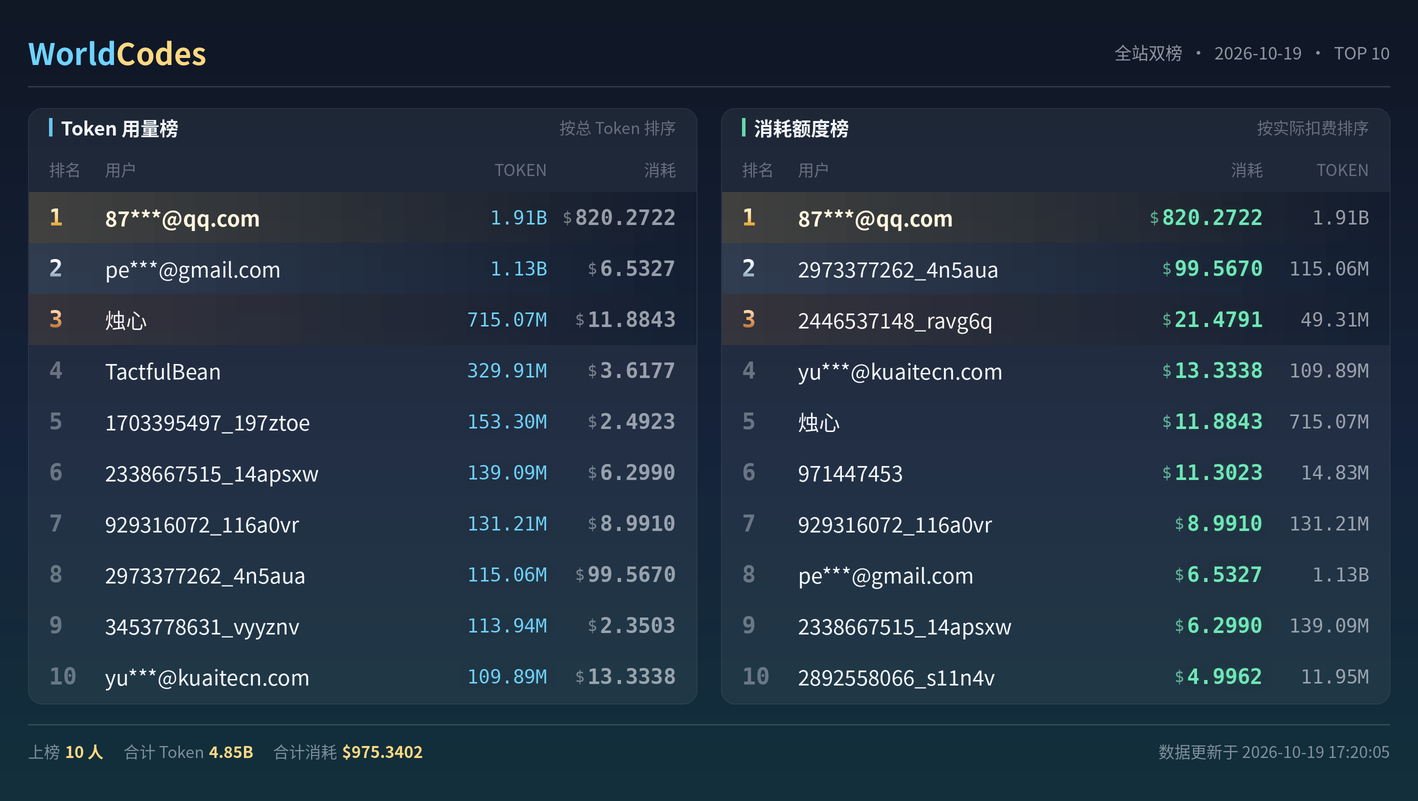
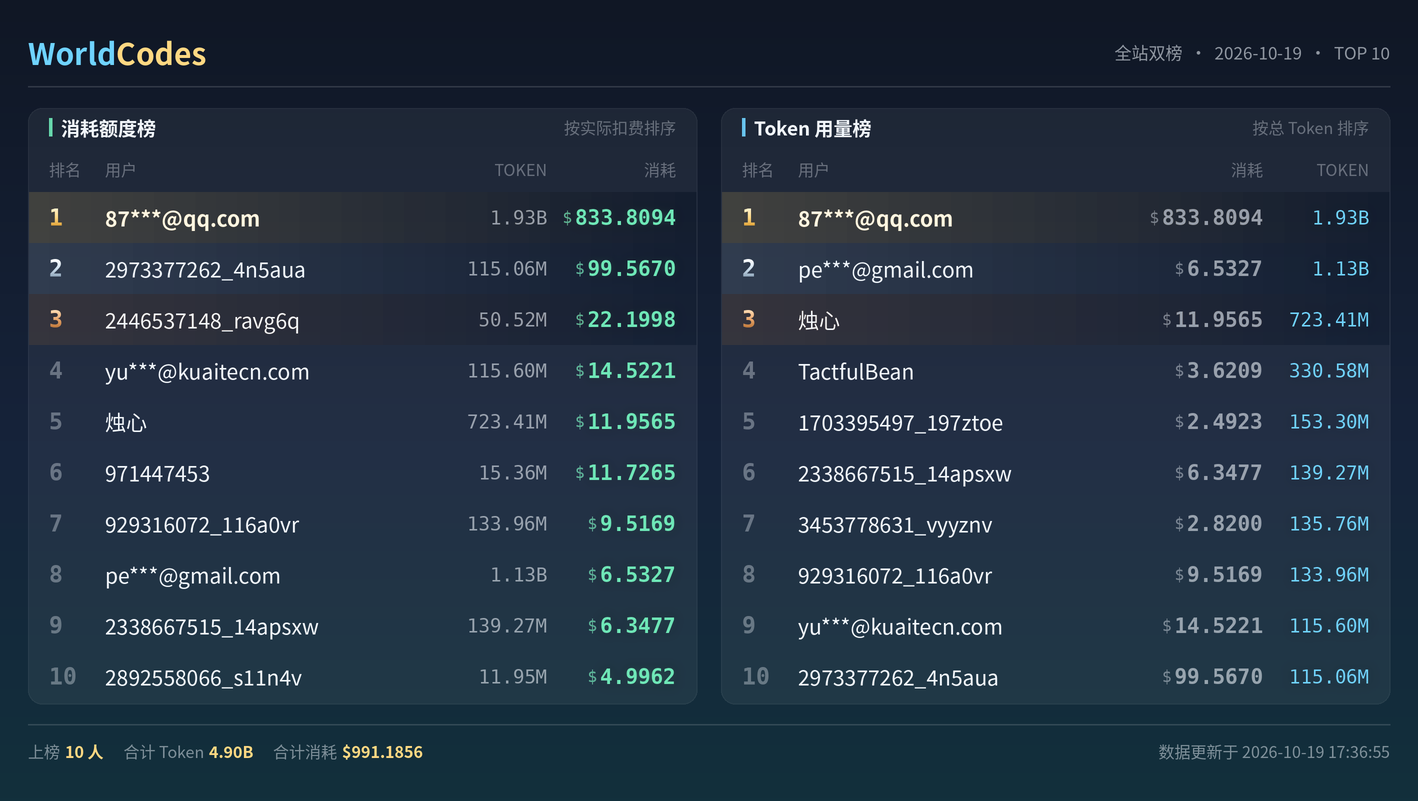
feat: 双榜改为左消耗右 Token，本榜指标列移到最右
- 面板顺序：左栏消耗额度榜、右栏 Token 用量榜
- 每栏把本榜排名的指标挪到最右一列并保持发光强调，另一个指标降为灰字参照
- 单榜同样把本榜指标排在最后一列，列序为 排名/用户/参照指标/请求数/本榜指标
- 页脚合计固定取 Token 榜那份，避免随面板顺序漂移
- 预览图与文档同步

diff --git a/local_render.py b/local_render.py
@@ -277,27 +277,23 @@ def _plan(panels: Sequence[dict], show_cost: bool, image_width: int) -> dict:
     inner_pad = 1 + geo["row_pad_h"]
     inner_w = panel_w - 2 * inner_pad
 
-    # 每一栏的列：双榜只放「主指标 + 次指标」，单榜放三列
+    # 每一栏的列：本榜排名的那个指标永远放在最右一列（表格惯例，
+    # 数值靠右对齐），另一个指标当参照列排在它左边。
     def columns_for(panel: dict) -> list[dict]:
         metric = str(panel.get("metric") or "tokens")
+        primary = metric if metric in ("tokens", "cost") else "tokens"
+        other = "cost" if primary == "tokens" else "tokens"
+        label = (lambda k: "TOKEN" if k == "tokens" else "消耗")
+
         cols: list[dict] = []
         if dual or not show_cost:
-            first = "tokens" if metric == "tokens" else "cost"
-            second = "cost" if metric == "tokens" else "tokens"
-            cols.append(dict(key=first, w=col_w[first], primary=True,
-                             label="TOKEN" if first == "tokens" else "消耗"))
-            if show_cost or second != "cost":
-                cols.append(dict(key=second, w=col_w[second], primary=False,
-                                 label="消耗" if second == "cost" else "TOKEN"))
+            if show_cost or other != "cost":
+                cols.append(dict(key=other, w=col_w[other], primary=False, label=label(other)))
+            cols.append(dict(key=primary, w=col_w[primary], primary=True, label=label(primary)))
         else:
-            # 单榜：主指标紧挨用户列排最左，再跟请求，次指标放最后
-            first = "tokens" if metric == "tokens" else "cost"
-            second = "cost" if first == "tokens" else "tokens"
-            cols.append(dict(key=first, w=col_w[first], primary=True,
-                             label="TOKEN" if first == "tokens" else "消耗"))
+            cols.append(dict(key=other, w=col_w[other], primary=False, label=label(other)))
             cols.append(dict(key="requests", w=col_w["requests"], primary=False, label="请求"))
-            cols.append(dict(key=second, w=col_w[second], primary=False,
-                             label="消耗" if second == "cost" else "TOKEN"))
+            cols.append(dict(key=primary, w=col_w[primary], primary=True, label=label(primary)))
         return cols
 
     return dict(

diff --git a/main.py b/main.py
@@ -549,10 +549,11 @@ class SpendingRankPlugin(Star):
                 }
             )
 
-        if isinstance(token_list, list):
-            _add(token_list, "tokens", "Token 用量榜", "按总 Token 排序")
+        # 左栏 = 消耗额度榜，右栏 = Token 用量榜
         if isinstance(cost_list, list):
             _add(cost_list, "cost", "消耗额度榜", "按实际扣费排序")
+        if isinstance(token_list, list):
+            _add(token_list, "tokens", "Token 用量榜", "按总 Token 排序")
 
         if not panels:
             _add(_extract_list(payload), "tokens", "Token 用量榜", "按总 Token 排序")
@@ -562,10 +563,12 @@ class SpendingRankPlugin(Star):
             picked = [p for p in panels if p["metric"] == mode]
             panels = picked or panels[:1]
 
-        first = panels[0]
+        # 页脚的合计固定取 Token 榜那份（两榜成员可能不完全一致，
+        # 取第一栏会让合计数字随面板顺序漂移）
+        token_panel = next((p for p in panels if p["metric"] == "tokens"), panels[0])
         meta = {
             "date": self._date_text(payload),
-            **first["_sums"],
+            **token_panel["_sums"],
             "total_users": max(panel.get("total_rows", 0) for panel in panels),
             "updated_at": datetime.now().strftime("%Y-%m-%d %H:%M:%S"),
         }

diff --git a/README.md b/README.md
@@ -233,9 +233,10 @@ WebUI →「插件管理」→ 找到本插件 →「配置」。所有项都有
 1. 只取每个榜前 `top_n`（默认 10）名，每行带 `rank`、前三名额外高亮。
 2. 2 倍超采样绘制（`SCALE=2`）再 LANCZOS 缩回，圆角和文字都没有锯齿。
 3. 版式按 `template.html` 复刻：同样的深蓝→青绿渐变底、同样的金/青品牌字、同样的前三名金属渐变名次。
-4. **双榜并排**：两栏各占一半宽度，每栏标题左侧有一条 3px 竖条（Token 榜青色 / 消耗榜绿色），
-   栏内只排「排名 / 用户 / 主指标 / 次指标」四列——主指标用发光字，另一列压成灰色，一眼看出这栏按什么排。
-   单榜时恢复五列（排名 / 用户 / 指标 / 请求数 / 另一个指标），页脚合计也只统计当前展示的榜。
+4. **双榜并排**：左栏消耗额度榜、右栏 Token 用量榜，各占一半宽度，每栏标题左侧有一条 3px 竖条（消耗榜绿色 / Token 榜青色）。
+   栏内排「排名 / 用户 / 参照指标 / 本榜指标」四列——**本榜排名的那个指标永远放在最右侧**并用发光字强调，
+   另一个指标压成灰字当参照，所以一眼就能看出这栏按什么排。
+   单榜时恢复五列（排名 / 用户 / 参照指标 / 请求数 / 本榜指标），本榜指标同样在最右。
 5. **列宽自适应**：金额位数会变（`$6.5327` 和 `$820.2722` 差好几个字符），所以数字列宽不是写死的，
    每榜会按实际最长的一行重新量宽，避免长金额把 `$` 挤进左边一列。
 6. 字体自动查找：优先 `NotoSansCJK-{Regular,Bold}.ttc`（`.ttc` 里先试 index=2 的简体字面），
